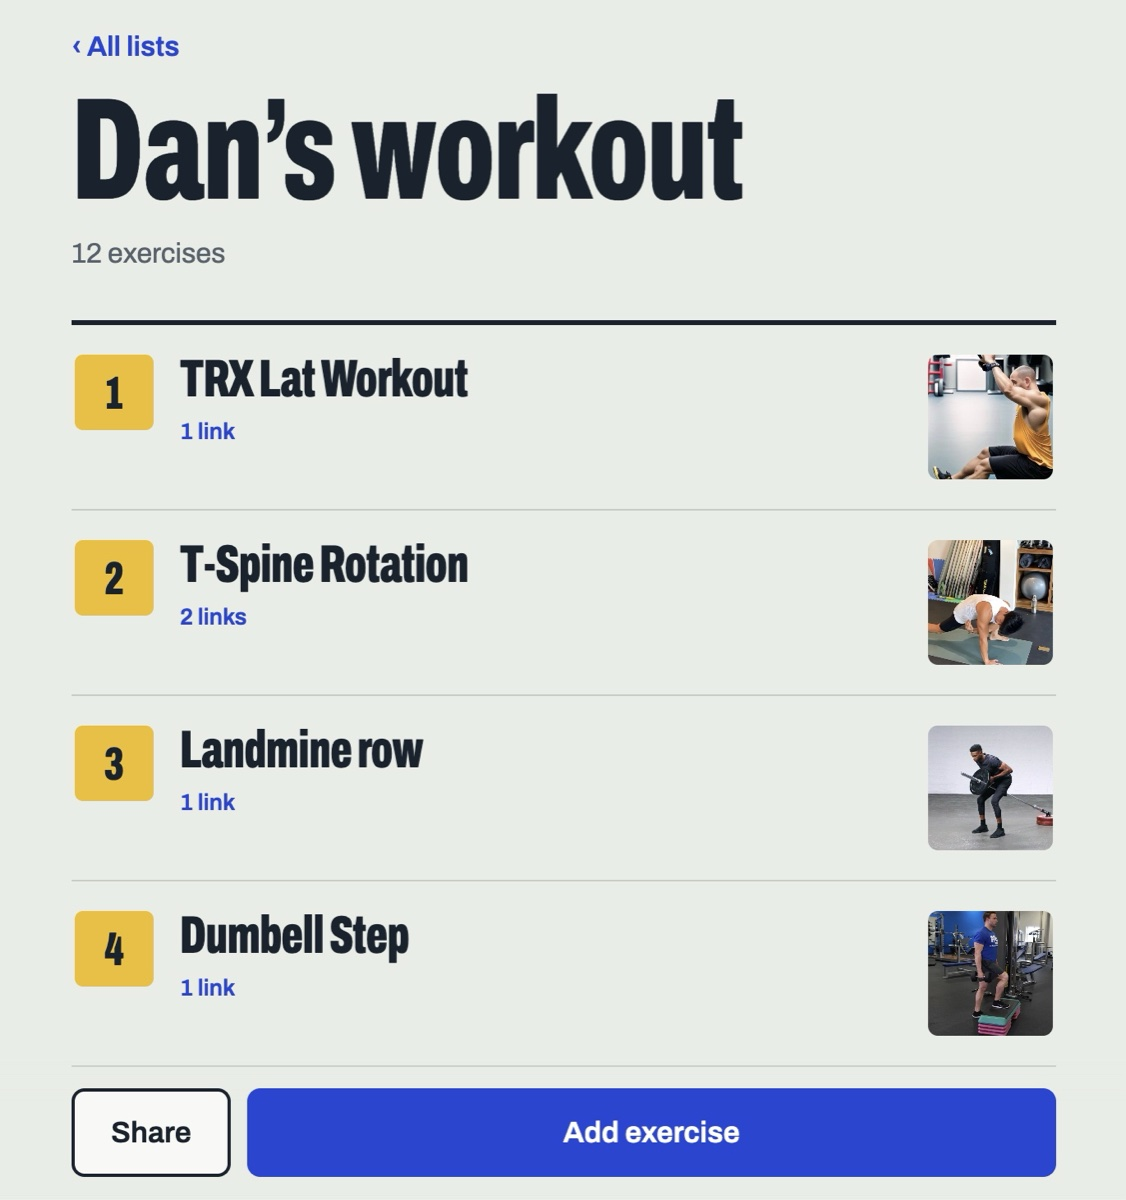
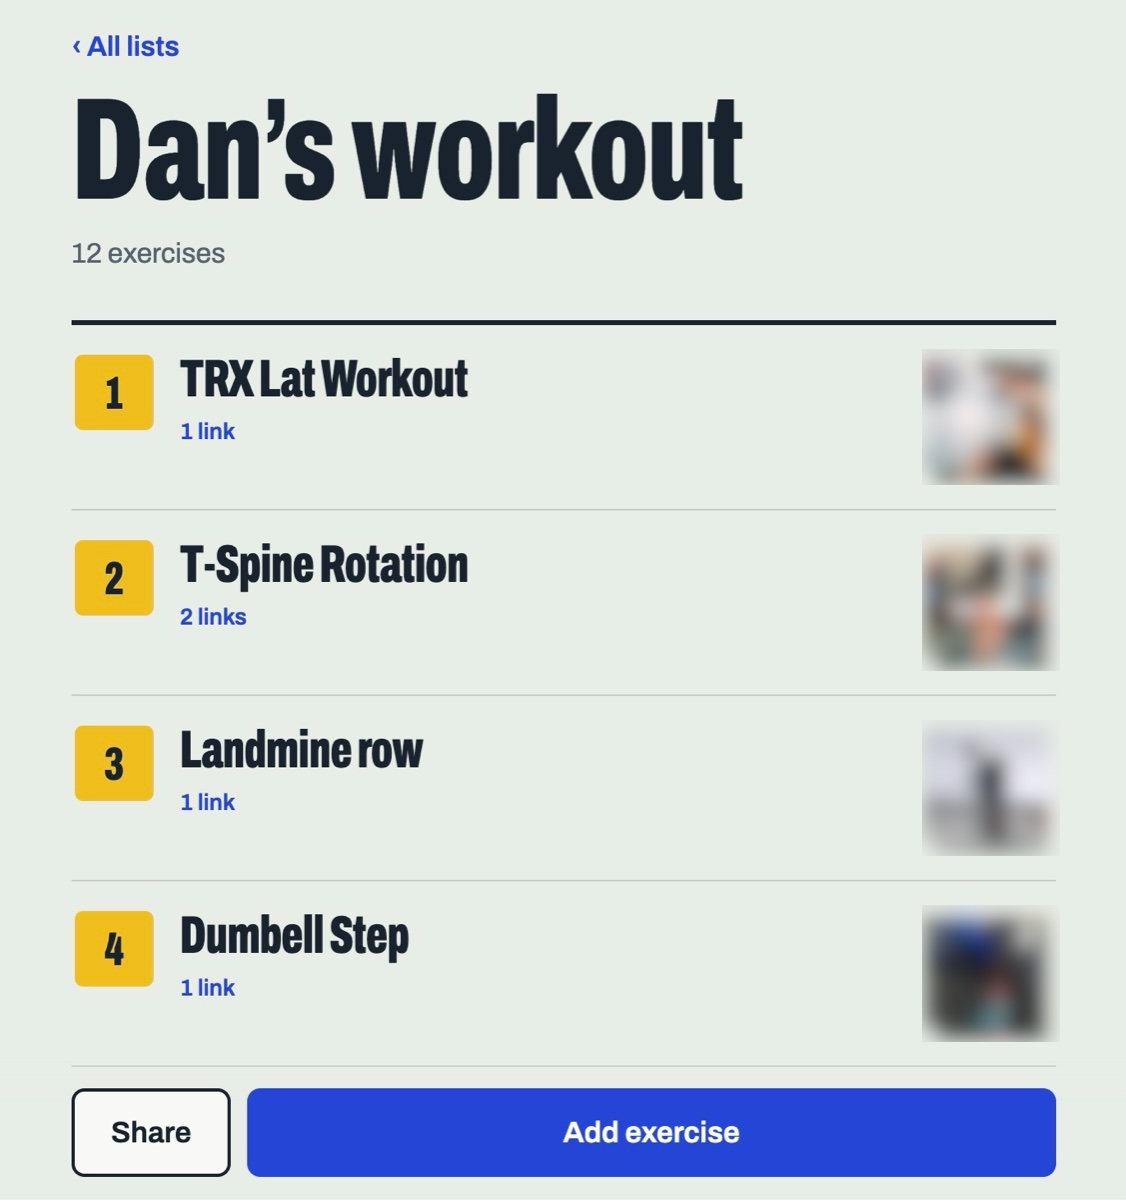
Add files via upload
Updates to images

diff --git a/index.html b/index.html
@@ -283,7 +283,7 @@
           <div class="body">
             <h3>Workout app</h3>
             <p>My trainer's routines in one place: 12 exercises, each with a link to a video showing how to do it correctly. Shareable, so a trainer can build lists for clients.</p>
-            <span class="meta">Claude Artifact · <!-- TODO: link -->Link coming soon</span>
+            <span class="meta">Claude Artifact · <a href="workouts/">Try it</a></span>
           </div>
         </article>
         <article class="build">
@@ -291,7 +291,7 @@
           <div class="body">
             <h3>Real estate flashcards</h3>
             <p>238 exam terms across topics like real property law and land use, with progress tracking, for my Georgia real estate license studies.</p>
-            <span class="meta">Claude Artifact · <!-- TODO: link -->Link coming soon</span>
+            <span class="meta">Claude Artifact · <a href="flashcards/">Try it</a></span>
           </div>
         </article>
       </div>
